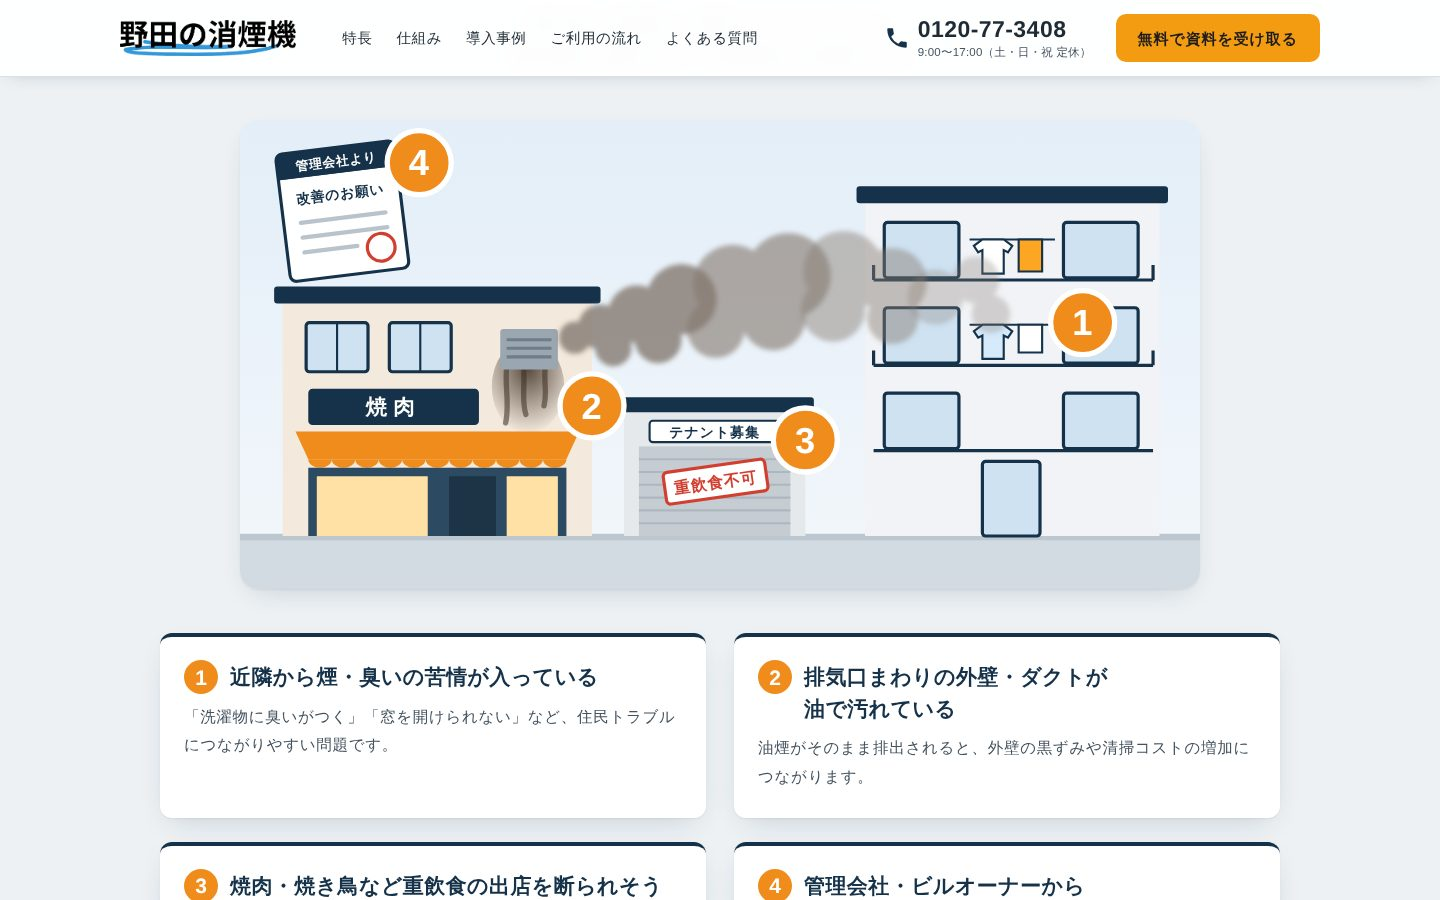
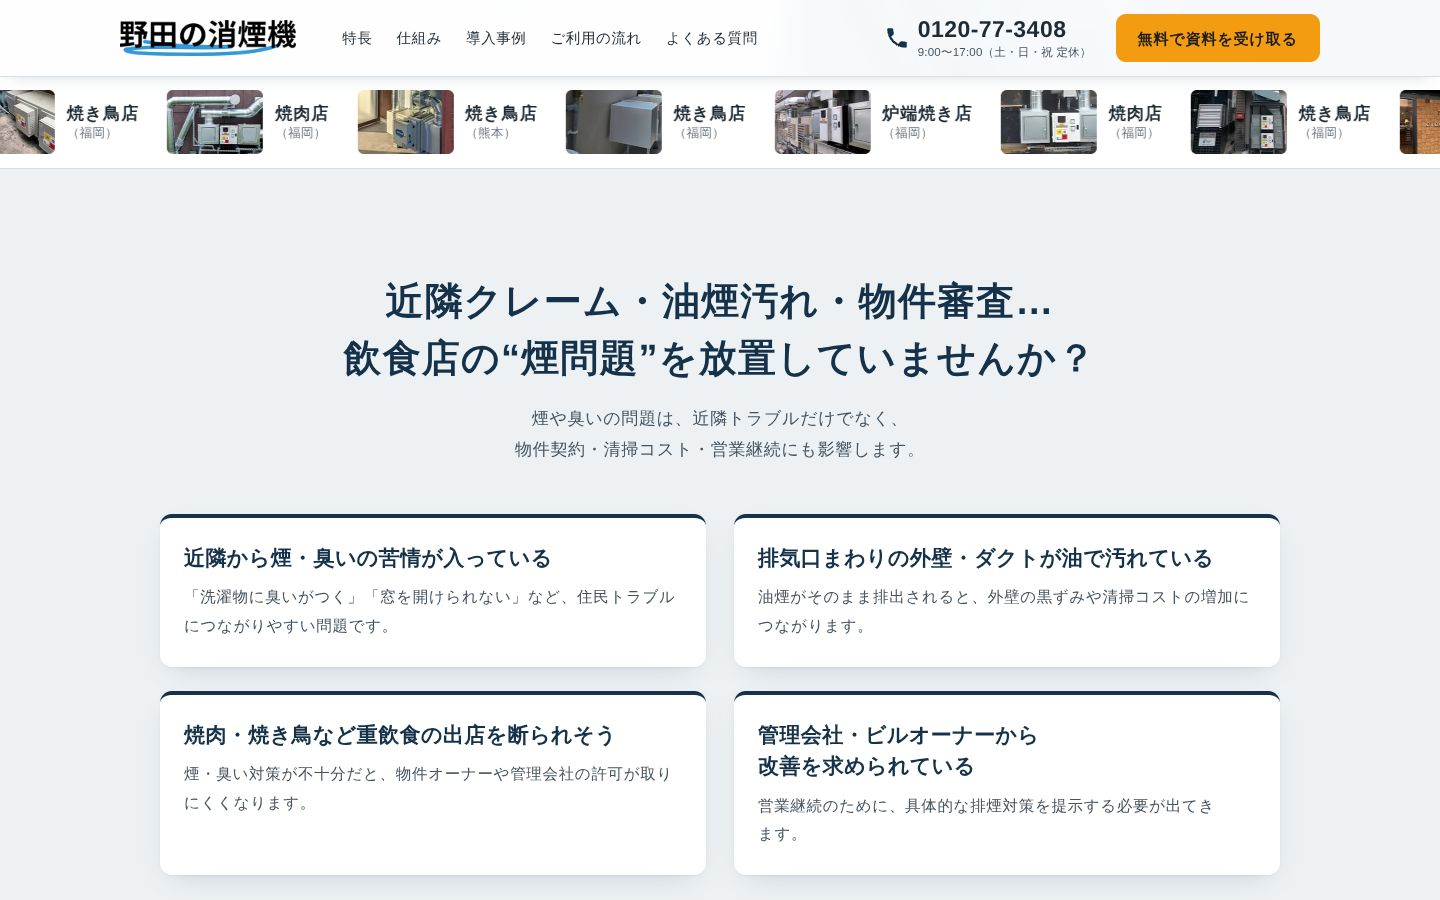
挿絵を前回の画像に戻す
お悩みの人物イラストとメリットの3枚のイラストを、描き直す前の画像に戻した。
フッターのロゴ、提携業者の記載、広島出張所はそのまま。

Claude-Session: https://claude.ai/code/session_019JDn7AZMLfVuv5c9s7Xp3K

diff --git a/index.html b/index.html
@@ -187,131 +187,25 @@ j=d.createElement(s),dl=l!='dataLayer'?'&l='+l:'';j.async=true;j.src=
       <h2 class="sh__ttl" id="problem-ttl"><span class="nb">近隣クレーム・</span><span class="nb">油煙汚れ・</span><span class="nb">物件審査…</span><br><span class="nb">飲食店の“煙問題”を</span><span class="nb">放置していませんか？</span></h2>
       <p class="sh__lead">煙や臭いの問題は、近隣トラブルだけでなく、<span class="nb">物件契約・清掃コスト・営業継続にも影響します。</span></p>
     </header>
-    <figure class="problem__map">
-      <svg class="illust illust--map" viewBox="0 0 900 440" role="img" aria-labelledby="map-ttl">
-        <title id="map-ttl">煙問題が起きている街並みのイラスト。①煙が隣のマンションの洗濯物に届く、②排気口まわりの外壁が油で黒ずむ、③隣の空き店舗は重飲食不可、④管理会社から改善のお願いが届く</title>
-        <defs>
-          <linearGradient id="mp-sky" x1="0" y1="0" x2="0" y2="1"><stop offset="0" stop-color="#e3eef8"/><stop offset="1" stop-color="#f3f7fb"/></linearGradient>
-          <filter id="mp-soft" x="-10%" y="-20%" width="120%" height="140%"><feGaussianBlur stdDeviation="2.5"/></filter>
-          <radialGradient id="mp-stain" cx=".5" cy=".3" r=".7"><stop offset="0" stop-color="#3b2d22" stop-opacity=".85"/><stop offset="1" stop-color="#3b2d22" stop-opacity="0"/></radialGradient>
-        </defs>
-        <rect width="900" height="440" fill="url(#mp-sky)"/>
-        <!-- ground -->
-        <rect y="388" width="900" height="52" fill="#d3dbe2"/>
-        <rect y="388" width="900" height="6" fill="#bcc7d0"/>
-
-        <!-- ===== A: restaurant ===== -->
-        <g>
-          <rect x="40" y="168" width="290" height="222" fill="#f3e9dc"/>
-          <rect x="32" y="156" width="306" height="16" rx="3" fill="#15324a"/>
-          <!-- upper windows -->
-          <g fill="#cfe2f2" stroke="#15324a" stroke-width="3">
-            <rect x="62" y="190" width="58" height="46" rx="3"/>
-            <rect x="140" y="190" width="58" height="46" rx="3"/>
-          </g>
-          <path d="M91 190v46M169 190v46" stroke="#15324a" stroke-width="2"/>
-          <!-- sign -->
-          <rect x="64" y="252" width="160" height="34" rx="4" fill="#15324a"/>
-          <text x="144" y="276" text-anchor="middle" font-size="20" font-weight="700" fill="#fff" letter-spacing="6">焼肉</text>
-          <!-- awning -->
-          <path d="M52 292h266l-12 26H64z" fill="#f08c1c"/>
-          <path d="M64 318a11 8 0 0 0 22 0a11 8 0 0 0 22 0a11 8 0 0 0 22 0a11 8 0 0 0 22 0a11 8 0 0 0 22 0a11 8 0 0 0 22 0a11 8 0 0 0 22 0a11 8 0 0 0 22 0a11 8 0 0 0 22 0a11 8 0 0 0 22 0a11 8 0 0 0 22 0z" fill="#f08c1c"/>
-          <!-- storefront -->
-          <rect x="64" y="326" width="242" height="64" fill="#2c4a62"/>
-          <rect x="72" y="334" width="104" height="56" fill="#ffe1a6"/>
-          <rect x="196" y="334" width="44" height="56" fill="#1d3447"/>
-          <rect x="250" y="334" width="48" height="56" fill="#ffe1a6"/>
-          <!-- exhaust hood on the facade -->
-          <ellipse cx="270" cy="250" rx="34" ry="44" fill="url(#mp-stain)"/>
-          <path d="M250 232c-2 18 3 34-1 52M266 236c1 14-2 28 2 40M286 234c-1 16 2 22-1 34" stroke="#3b2d22" stroke-width="5" stroke-linecap="round" opacity=".55"/>
-          <rect x="244" y="196" width="54" height="38" rx="3" fill="#9aa7b1"/>
-          <path d="M250 206h42M250 214h42M250 222h42" stroke="#6f7d88" stroke-width="3"/>
-        </g>
-
-        <!-- ===== B: vacant shop ===== -->
-        <g>
-          <rect x="360" y="270" width="170" height="120" fill="#e6e9ec"/>
-          <rect x="352" y="260" width="186" height="14" rx="3" fill="#15324a"/>
-          <rect x="374" y="306" width="142" height="84" fill="#c5ccd2"/>
-          <path d="M374 318h142M374 330h142M374 342h142M374 354h142M374 366h142M374 378h142" stroke="#aeb7bf" stroke-width="2"/>
-          <rect x="384" y="282" width="122" height="20" rx="3" fill="#fff" stroke="#15324a" stroke-width="2"/>
-          <text x="445" y="297" text-anchor="middle" font-size="13" font-weight="700" fill="#15324a" letter-spacing="1">テナント募集</text>
-          <g transform="rotate(-8 446 340)">
-            <rect x="398" y="324" width="96" height="30" rx="4" fill="#fff" stroke="#d23f31" stroke-width="3"/>
-            <text x="446" y="345" text-anchor="middle" font-size="15" font-weight="700" fill="#d23f31">重飲食不可</text>
-          </g>
-        </g>
-
-        <!-- ===== C: apartment ===== -->
-        <g>
-          <rect x="586" y="74" width="276" height="316" fill="#f1f3f6"/>
-          <rect x="578" y="62" width="292" height="16" rx="3" fill="#15324a"/>
-          <g fill="#cfe2f2" stroke="#15324a" stroke-width="3">
-            <rect x="604" y="96" width="70" height="52" rx="3"/><rect x="772" y="96" width="70" height="52" rx="3"/>
-            <rect x="604" y="176" width="70" height="52" rx="3"/><rect x="772" y="176" width="70" height="52" rx="3"/>
-            <rect x="604" y="256" width="70" height="52" rx="3"/><rect x="772" y="256" width="70" height="52" rx="3"/>
-            <rect x="696" y="320" width="54" height="70" rx="3"/>
-          </g>
-          <!-- balconies -->
-          <g fill="none" stroke="#15324a" stroke-width="3">
-            <path d="M594 150h262M594 230h262M594 310h262"/>
-            <path d="M594 150v-14M856 150v-14M594 230v-14M856 230v-14"/>
-          </g>
-          <!-- laundry -->
-          <path d="M684 112h80" stroke="#15324a" stroke-width="2"/>
-          <path d="M696 112l-8 6 4 6 4-2v22h20v-22l4 2 4-6-8-6z" fill="#fff" stroke="#15324a" stroke-width="2"/>
-          <path d="M730 112h22v30h-22z" fill="#fca624" stroke="#15324a" stroke-width="2"/>
-          <path d="M684 192h80" stroke="#15324a" stroke-width="2"/>
-          <path d="M696 192l-8 6 4 6 4-2v22h20v-22l4 2 4-6-8-6z" fill="#d6eafb" stroke="#15324a" stroke-width="2"/>
-          <path d="M730 192h22v26h-22z" fill="#fff" stroke="#15324a" stroke-width="2"/>
-        </g>
-
-        <!-- ===== smoke (denser at the outlet, thinner toward the apartment) ===== -->
-        <g fill="#857a70" filter="url(#mp-soft)">
-          <g opacity=".8"><circle cx="314" cy="204" r="15"/><circle cx="338" cy="194" r="21"/><circle cx="350" cy="214" r="17"/><circle cx="372" cy="182" r="27"/><circle cx="392" cy="206" r="22"/><circle cx="414" cy="168" r="33"/></g>
-          <g opacity=".62"><circle cx="446" cy="196" r="27"/><circle cx="462" cy="154" r="37"/><circle cx="500" cy="186" r="30"/><circle cx="514" cy="146" r="40"/></g>
-          <g opacity=".45"><circle cx="556" cy="178" r="30"/><circle cx="566" cy="142" r="38"/><circle cx="612" cy="152" r="32"/><circle cx="612" cy="186" r="24"/></g>
-          <g opacity=".3"><circle cx="652" cy="166" r="26"/><circle cx="690" cy="150" r="22"/><circle cx="704" cy="182" r="18"/></g>
-        </g>
-
-        <!-- ===== notice letter ===== -->
-        <g transform="rotate(-7 92 86)">
-          <rect x="40" y="26" width="112" height="120" rx="6" fill="#fff" stroke="#15324a" stroke-width="3"/>
-          <rect x="40" y="26" width="112" height="24" rx="6" fill="#15324a"/>
-          <rect x="40" y="40" width="112" height="10" fill="#15324a"/>
-          <text x="96" y="43" text-anchor="middle" font-size="12" font-weight="700" fill="#fff">管理会社より</text>
-          <text x="96" y="74" text-anchor="middle" font-size="13" font-weight="700" fill="#15324a">改善のお願い</text>
-          <path d="M56 92h80M56 106h80M56 120h50" stroke="#b9c3cb" stroke-width="4" stroke-linecap="round"/>
-          <circle cx="128" cy="124" r="13" fill="none" stroke="#d23f31" stroke-width="3"/>
-        </g>
-
-        <!-- ===== numbers ===== -->
-        <g font-size="34" font-weight="700" text-anchor="middle" fill="#fff">
-          <g><circle cx="790" cy="190" r="30" fill="#f08c1c" stroke="#fff" stroke-width="5"/><text x="790" y="202">1</text></g>
-          <g><circle cx="330" cy="268" r="30" fill="#f08c1c" stroke="#fff" stroke-width="5"/><text x="330" y="280">2</text></g>
-          <g><circle cx="530" cy="300" r="30" fill="#f08c1c" stroke="#fff" stroke-width="5"/><text x="530" y="312">3</text></g>
-          <g><circle cx="168" cy="40" r="30" fill="#f08c1c" stroke="#fff" stroke-width="5"/><text x="168" y="52">4</text></g>
-        </g>
-      </svg>
-    </figure>
     <ul class="worries">
       <li class="card worry">
-        <h3><span class="worry__no num" aria-hidden="true">1</span><span class="nb">近隣から煙・臭いの</span><span class="nb">苦情が入っている</span></h3>
+        <h3><span class="nb">近隣から煙・臭いの</span><span class="nb">苦情が入っている</span></h3>
         <p>「洗濯物に臭いがつく」「窓を開けられない」など、住民トラブルにつながりやすい問題です。</p>
       </li>
       <li class="card worry">
-        <h3><span class="worry__no num" aria-hidden="true">2</span><span class="nb">排気口まわりの</span><span class="nb">外壁・ダクトが</span><span class="nb">油で汚れている</span></h3>
+        <h3><span class="nb">排気口まわりの外壁・ダクトが</span><span class="nb">油で汚れている</span></h3>
         <p>油煙がそのまま排出されると、外壁の黒ずみや清掃コストの増加につながります。</p>
       </li>
       <li class="card worry">
-        <h3><span class="worry__no num" aria-hidden="true">3</span><span class="nb">焼肉・焼き鳥など</span><span class="nb">重飲食の出店を</span><span class="nb">断られそう</span></h3>
+        <h3><span class="nb">焼肉・焼き鳥など</span><span class="nb">重飲食の出店を</span><span class="nb">断られそう</span></h3>
         <p>煙・臭い対策が不十分だと、物件オーナーや管理会社の許可が取りにくくなります。</p>
       </li>
       <li class="card worry">
-        <h3><span class="worry__no num" aria-hidden="true">4</span><span class="nb">管理会社・ビルオーナーから</span><span class="nb">改善を求められている</span></h3>
+        <h3><span class="nb">管理会社・ビルオーナーから</span><span class="nb">改善を求められている</span></h3>
         <p>営業継続のために、具体的な排煙対策を提示する必要が出てきます。</p>
       </li>
     </ul>
+    <img class="problem__img" src="assets/img/worry.webp" width="740" height="716" alt="煙の問題に頭を抱える飲食店の店主とスタッフ" loading="lazy">
   </div>
 </section>
 
@@ -423,126 +317,21 @@ j=d.createElement(s),dl=l!='dataLayer'?'&l='+l:'';j.async=true;j.src=
     </header>
     <ul class="merits">
       <li class="card merit-card">
-        <svg class="illust" viewBox="0 0 600 300" role="img" aria-label="消煙機を通したきれいな排気と、隣の建物で干された洗濯物のイラスト">
-          <rect width="600" height="300" fill="#e3eef8"/>
-          <!-- restaurant wall -->
-          <rect x="0" y="40" width="250" height="260" fill="#f3e9dc"/>
-          <rect x="0" y="30" width="258" height="14" fill="#15324a"/>
-          <rect x="26" y="70" width="60" height="50" rx="3" fill="#cfe2f2" stroke="#15324a" stroke-width="3"/>
-          <path d="M56 70v50" stroke="#15324a" stroke-width="2"/>
-          <path d="M0 236h236l-10 22H0z" fill="#f08c1c"/>
-          <path d="M0 258h226v42H0z" fill="#2c4a62"/>
-          <rect x="14" y="266" width="86" height="34" fill="#ffe1a6"/>
-          <rect x="150" y="266" width="62" height="34" fill="#ffe1a6"/>
-          <!-- duct + JL-8A -->
-          <rect x="104" y="150" width="26" height="86" fill="#aab6bf"/>
-          <rect x="96" y="96" width="112" height="64" rx="6" fill="#d9dee2" stroke="#15324a" stroke-width="3"/>
-          <rect x="96" y="96" width="112" height="14" rx="6" fill="#15324a"/>
-          <rect x="110" y="122" width="40" height="24" rx="3" fill="#fff" stroke="#15324a" stroke-width="2"/>
-          <circle cx="186" cy="134" r="9" fill="#f08c1c"/>
-          <rect x="208" y="114" width="40" height="26" fill="#aab6bf"/>
-          <rect x="244" y="106" width="14" height="42" rx="2" fill="#8795a0"/>
-          <!-- clean air -->
-          <g fill="none" stroke="#3498db" stroke-width="5" stroke-linecap="round" opacity=".75">
-            <path d="M274 112c14-8 26 8 40 0s26-8 40 0"/>
-            <path d="M274 128c14-8 26 8 40 0s26-8 40 0s26-8 40 0"/>
-            <path d="M274 144c14-8 26 8 40 0s26-8 40 0"/>
-          </g>
-          <!-- apartment -->
-          <rect x="398" y="20" width="202" height="280" fill="#f1f3f6"/>
-          <rect x="390" y="10" width="210" height="14" fill="#15324a"/>
-          <rect x="512" y="48" width="64" height="58" rx="3" fill="#cfe2f2" stroke="#15324a" stroke-width="3"/>
-          <path d="M512 48c14 18 14 40 0 58" fill="#fff" stroke="#15324a" stroke-width="2"/>
-          <rect x="512" y="170" width="64" height="58" rx="3" fill="#cfe2f2" stroke="#15324a" stroke-width="3"/>
-          <path d="M398 140h202M398 262h202" stroke="#15324a" stroke-width="3"/>
-          <path d="M416 70h84" stroke="#15324a" stroke-width="2"/>
-          <path d="M430 70l-9 7 5 7 4-2v28h24V82l4 2 5-7-9-7z" fill="#fff" stroke="#15324a" stroke-width="2"/>
-          <path d="M468 70h26v38h-26z" fill="#fca624" stroke="#15324a" stroke-width="2"/>
-          <!-- check -->
-          <circle cx="470" cy="190" r="30" fill="#2ecc71" stroke="#fff" stroke-width="5"/>
-          <path d="M456 191l10 10 19-21" fill="none" stroke="#fff" stroke-width="6" stroke-linecap="round" stroke-linejoin="round"/>
-        </svg>
+        <img src="assets/img/merit-1.webp" width="509" height="248" alt="煙に「煙たい」「目が痛い」と困る近隣住民のイラスト" loading="lazy">
         <div class="merit-card__body">
           <h3>近隣クレームを未然に防ぐ</h3>
           <ul class="dots"><li>煙や臭いによる苦情を軽減</li><li>洗濯物や窓開けへの影響を抑制</li><li>周辺住民との良好な関係づくりに貢献</li></ul>
         </div>
       </li>
       <li class="card merit-card">
-        <svg class="illust" viewBox="0 0 600 300" role="img" aria-label="排気口まわりの外壁の比較イラスト。対策なしは油で黒く汚れ、導入後はきれいなまま">
-          <defs>
-            <radialGradient id="m2-stain" cx=".5" cy=".38" r=".5"><stop offset="0" stop-color="#3b2d22" stop-opacity=".9"/><stop offset="1" stop-color="#3b2d22" stop-opacity="0"/></radialGradient>
-          </defs>
-          <rect width="600" height="300" fill="#f3e9dc"/>
-          <!-- tile lines -->
-          <g stroke="#e6d8c5" stroke-width="2">
-            <path d="M0 60h600M0 120h600M0 180h600M0 240h600"/>
-          </g>
-          <!-- before -->
-          <rect width="300" height="300" fill="#e9dccb" opacity=".6"/>
-          <ellipse cx="150" cy="150" rx="92" ry="110" fill="url(#m2-stain)"/>
-          <g stroke="#3b2d22" stroke-width="7" stroke-linecap="round" opacity=".6">
-            <path d="M104 120c-3 34 4 60-2 96"/><path d="M134 128c2 30-3 46 2 74"/><path d="M168 126c-2 24 3 40-1 62"/><path d="M196 122c2 28-2 52 1 80"/>
-          </g>
-          <rect x="96" y="70" width="108" height="64" rx="5" fill="#7d8790"/>
-          <path d="M108 86h84M108 100h84M108 114h84" stroke="#4f5961" stroke-width="5"/>
-          <!-- after -->
-          <rect x="396" y="70" width="108" height="64" rx="5" fill="#aab6bf"/>
-          <path d="M408 86h84M408 100h84M408 114h84" stroke="#7d8b96" stroke-width="5"/>
-          <g fill="#fca624">
-            <path d="M532 70l5 13 13 5-13 5-5 13-5-13-13-5 13-5z"/>
-            <path d="M372 150l4 9 9 4-9 4-4 9-4-9-9-4 9-4z"/>
-            <path d="M520 168l3 7 7 3-7 3-3 7-3-7-7-3 7-3z"/>
-          </g>
-          <!-- divider + labels -->
-          <path d="M300 0v300" stroke="#fff" stroke-width="6"/>
-          <g font-size="22" font-weight="700" text-anchor="middle" fill="#fff">
-            <rect x="80" y="236" width="140" height="40" rx="20" fill="#56616b"/>
-            <text x="150" y="263">対策なし</text>
-            <rect x="380" y="236" width="140" height="40" rx="20" fill="#f08c1c"/>
-            <text x="450" y="263">導入後</text>
-          </g>
-        </svg>
+        <img src="assets/img/merit-2.webp" width="600" height="306" alt="油煙で外壁や車が黒く汚れた店舗のイラスト" loading="lazy">
         <div class="merit-card__body">
           <h3>外壁・ダクトの油汚れを抑える</h3>
           <ul class="dots"><li>外壁の油汚れや黒ずみを軽減</li><li>清掃・補修コストの増加を抑制</li><li>建物の美観と資産価値を守る</li></ul>
         </div>
       </li>
       <li class="card merit-card">
-        <svg class="illust" viewBox="0 0 600 300" role="img" aria-label="重飲食の店舗が入ったビルと、排煙対策にチェックが入り承認された出店審査のイラスト">
-          <rect width="600" height="300" fill="#e3eef8"/>
-          <rect y="272" width="600" height="28" fill="#d3dbe2"/>
-          <!-- building -->
-          <rect x="40" y="46" width="240" height="228" fill="#f1f3f6"/>
-          <rect x="32" y="34" width="256" height="14" rx="3" fill="#15324a"/>
-          <g fill="#cfe2f2" stroke="#15324a" stroke-width="3">
-            <rect x="62" y="66" width="56" height="44" rx="3"/><rect x="132" y="66" width="56" height="44" rx="3"/><rect x="202" y="66" width="56" height="44" rx="3"/>
-            <rect x="62" y="126" width="56" height="44" rx="3"/><rect x="132" y="126" width="56" height="44" rx="3"/><rect x="202" y="126" width="56" height="44" rx="3"/>
-          </g>
-          <rect x="84" y="184" width="152" height="28" rx="4" fill="#15324a"/>
-          <text x="160" y="205" text-anchor="middle" font-size="18" font-weight="700" fill="#fff" letter-spacing="5">焼肉</text>
-          <path d="M52 214h216l-10 20H62z" fill="#f08c1c"/>
-          <rect x="62" y="234" width="196" height="40" fill="#2c4a62"/>
-          <rect x="72" y="242" width="72" height="32" fill="#ffe1a6"/>
-          <rect x="176" y="242" width="72" height="32" fill="#ffe1a6"/>
-          <!-- review sheet -->
-          <g transform="rotate(4 450 150)">
-            <rect x="336" y="34" width="228" height="236" rx="10" fill="#fff" stroke="#15324a" stroke-width="3"/>
-            <rect x="412" y="22" width="76" height="24" rx="6" fill="#15324a"/>
-            <text x="450" y="84" text-anchor="middle" font-size="22" font-weight="700" fill="#15324a">出店審査</text>
-            <g font-size="19" font-weight="500" fill="#1e2b35">
-              <rect x="360" y="108" width="26" height="26" rx="5" fill="#2ecc71"/><path d="M366 121l5 5 9-10" fill="none" stroke="#fff" stroke-width="4" stroke-linecap="round" stroke-linejoin="round"/>
-              <text x="398" y="128">排煙対策</text>
-              <rect x="360" y="148" width="26" height="26" rx="5" fill="#2ecc71"/><path d="M366 161l5 5 9-10" fill="none" stroke="#fff" stroke-width="4" stroke-linecap="round" stroke-linejoin="round"/>
-              <text x="398" y="168">臭い対策</text>
-              <rect x="360" y="188" width="26" height="26" rx="5" fill="#2ecc71"/><path d="M366 201l5 5 9-10" fill="none" stroke="#fff" stroke-width="4" stroke-linecap="round" stroke-linejoin="round"/>
-              <text x="398" y="208">定期点検</text>
-            </g>
-            <g transform="rotate(-14 512 226)">
-              <circle cx="512" cy="226" r="34" fill="none" stroke="#d23f31" stroke-width="4"/>
-              <text x="512" y="235" text-anchor="middle" font-size="24" font-weight="900" fill="#d23f31">承認</text>
-            </g>
-          </g>
-        </svg>
+        <img src="assets/img/merit-3.webp" width="600" height="299" alt="価値が上がっていくビルのイラスト" loading="lazy">
         <div class="merit-card__body">
           <h3>店舗・物件の活用価値を高める</h3>
           <ul class="dots"><li>重飲食業態の出店検討がしやすくなる</li><li>物件オーナーや管理会社への説明材料に</li><li>店舗のイメージアップにも貢献</li></ul>

diff --git a/assets/css/site.css b/assets/css/site.css
@@ -220,11 +220,7 @@ main { padding-top: calc(var(--hd-h) + env(safe-area-inset-top, 0px)); }
 .worry { padding: 24px 24px 26px; border-top: 4px solid var(--navy); }
 .worry h3 { font-size: clamp(18px, 1.9vw, 21px); font-weight: 700; line-height: 1.5; letter-spacing: .02em; font-feature-settings: "palt"; color: var(--navy); }
 .worry p { margin-top: 10px; font-size: 15.5px; line-height: 1.85; color: var(--ink-2); }
-.problem__map { max-width: 960px; margin: 0 auto clamp(28px, 4vw, 44px); border-radius: 18px; overflow: hidden; box-shadow: var(--shadow); }
-.illust { display: block; width: 100%; height: auto; }
-@media (max-width: 599px) { .problem__map { margin-inline: calc(var(--gutter) * -1); border-radius: 0; box-shadow: none; } }
-.worry h3:has(.worry__no) { position: relative; padding-left: 46px; }
-.worry__no { position: absolute; left: 0; top: -1px; display: grid; place-items: center; width: 34px; height: 34px; border-radius: 50%; background: var(--orange-2); color: #fff; font-size: 21px; font-weight: 700; line-height: 1; }
+.problem__img { width: min(360px, 78%); margin: 40px auto 0; }
 
 /* the original's triangle notch into the navy section */
 .solution { padding-top: clamp(96px, 11vw, 150px); }
@@ -264,7 +260,7 @@ main { padding-top: calc(var(--hd-h) + env(safe-area-inset-top, 0px)); }
 @media (min-width: 900px) { .merits { grid-template-columns: repeat(3, minmax(0, 1fr)); gap: 24px; } }
 @media (min-width: 600px) and (max-width: 899px) { .merits { grid-template-columns: repeat(2, minmax(0, 1fr)); } }
 .merit-card { overflow: hidden; display: flex; flex-direction: column; }
-.merit-card .illust { aspect-ratio: 2 / 1; }
+.merit-card img { width: 100%; aspect-ratio: 2 / 1; object-fit: cover; }
 .merit-card__body { padding: 20px 22px 24px; }
 .merit-card h3 { font-size: 19px; font-weight: 700; line-height: 1.5; text-align: center; color: var(--navy); font-feature-settings: "palt"; }
 .dots { margin-top: 12px; }
